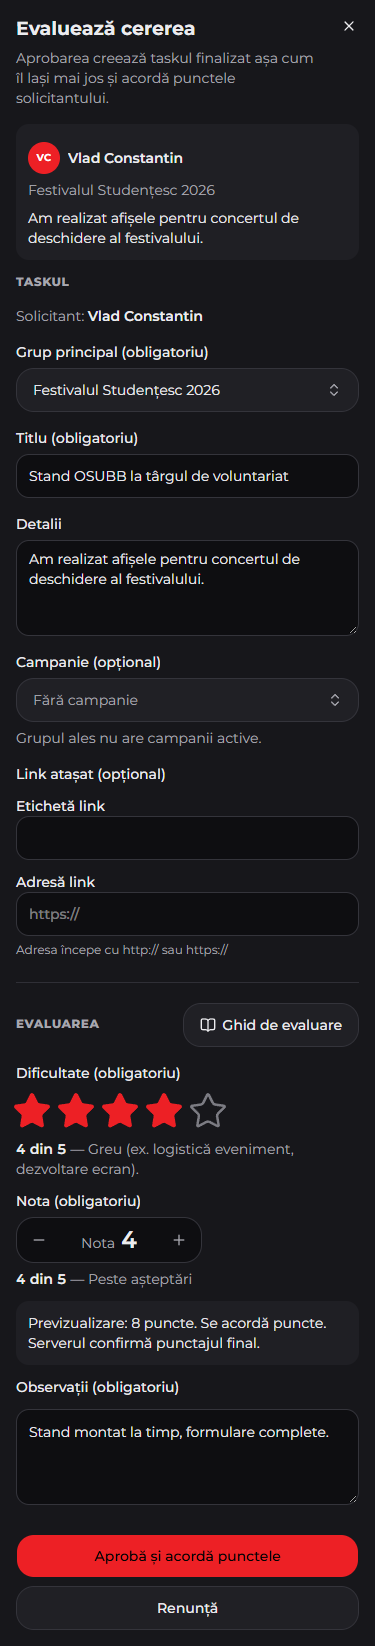
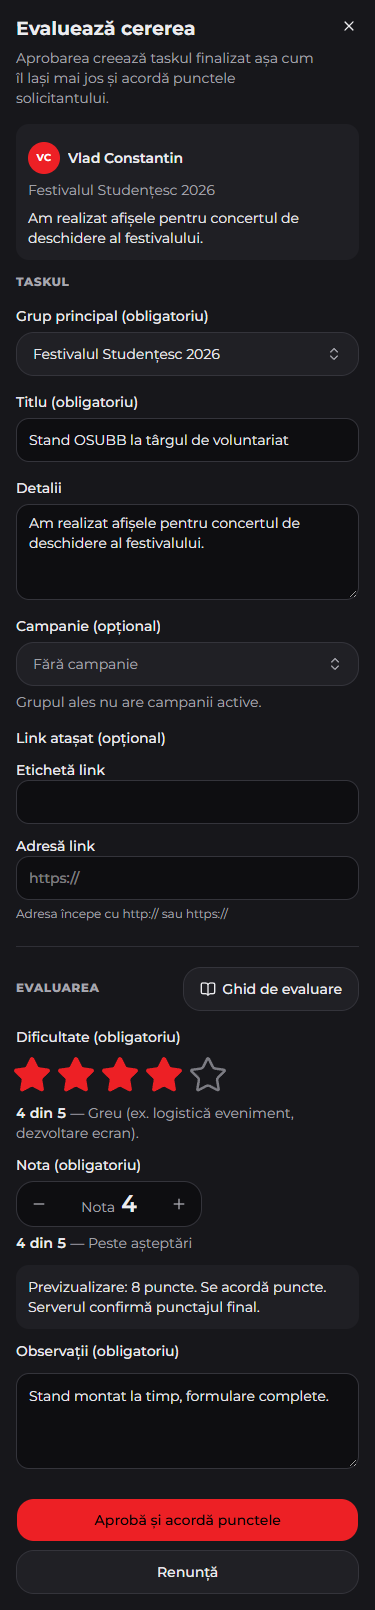
fix(tracker): pickers read one Group Audience per Group; volunteers as Member Cards (#915)
CodeRabbit on #920:
- completed_task_executors computes the Group Audience once
  (private.completed_work_executors: the caller's standing first, then the
  per-candidate checks), and can_award_completed_work checks the cheap
  parts before the audience. The rule splits into can_award_in_group,
  meets_group_min_level and is_work_decider; the commands' gate uses the
  same pieces.
- The fixed volunteer renders through MemberName; the approval dialog names
  the requester once, in the Request summary.

diff --git a/app/src/components/tasks/CompletedTaskForm.tsx b/app/src/components/tasks/CompletedTaskForm.tsx
@@ -8,6 +8,7 @@ import {
 } from 'react';
 import { AttachedLinkFields } from '../attached-link/AttachedLinkFields';
 import { SubHeading } from '../layout';
+import { MemberName } from '../member/MemberName';
 import { Button } from '../ui/button';
 import {
   Combobox,
@@ -49,7 +50,11 @@ const control =
   'min-h-11 w-full rounded-md border border-input bg-background px-3 py-2 text-sm';
 
 /** A volunteer already decided by where the form opened: the requester, or the tracked Member. */
-export type FixedVolunteer = { id: string; name: string };
+export type FixedVolunteer = {
+  id: string;
+  nickname: string | null;
+  fullName: string;
+};
 
 /**
  * The completed-Task form (#915), one component for both ways a completed
@@ -79,8 +84,11 @@ export function CompletedTaskForm({
   options: CompletedTaskOptions;
   /** `null`: the manager chooses the volunteer after the Group. */
   volunteer: FixedVolunteer | null;
-  /** How the fixed volunteer is named: "Solicitant" on an approval. */
-  volunteerLabel?: string;
+  /**
+   * The line naming the fixed volunteer; null when the host already shows
+   * them (an approval's Request summary names the requester).
+   */
+  volunteerLabel?: string | null;
   initial?: { title?: string; description?: string; groupId?: number | null };
   submitLabel: string;
   isPending: boolean;
@@ -198,10 +206,15 @@ export function CompletedTaskForm({
         className="grid min-w-0 gap-4"
       >
         <SubHeading id={`${id}-task`}>Taskul</SubHeading>
-        {volunteer && (
+        {volunteer && volunteerLabel && (
           <p className="m-0 text-sm" data-slot="completed-volunteer">
             <span className="text-muted-foreground">{volunteerLabel}: </span>
-            <span className="font-semibold">{volunteer.name}</span>
+            <MemberName
+              memberId={volunteer.id}
+              nickname={volunteer.nickname}
+              fullName={volunteer.fullName}
+              className="font-semibold"
+            />
           </p>
         )}
         <div className="grid gap-1.5" {...form.slot('groupId')}>

diff --git a/app/src/screens/requests/RequestDecisionQueue.test.tsx b/app/src/screens/requests/RequestDecisionQueue.test.tsx
@@ -125,7 +125,7 @@ it('shares evaluation fields and retains success after the queue refetches empty
     'Cererea a fost aprobată',
   );
   expect(screen.getByRole('status')).toHaveFocus();
-});
+}, 20_000);
 it('requires a rejection note, calls rejection only, and has no axe violations', async () => {
   const user = userEvent.setup();
   const { container } = render(<RequestDecisionQueue />);
@@ -272,9 +272,14 @@ it('prefills the Task from the Request and approves it as the decider shaped it 
     name: 'Evaluează cererea',
   });
   expect(groups.read).toHaveBeenCalledWith('ana');
+  // The requester, as a Member Card button (the path rule for names).
+  // The requester is named once, by the Request summary, as a Member Card.
   expect(
-    dialog.querySelector('[data-slot="completed-volunteer"]'),
-  ).toHaveTextContent('Solicitant: Ana Pop');
+    within(dialog).getAllByRole('button', {
+      name: 'Profilul membrului Ana Pop',
+    }),
+  ).toHaveLength(1);
+  expect(dialog.querySelector('[data-slot="completed-volunteer"]')).toBeNull();
   const title = within(dialog).getByLabelText('Titlu (obligatoriu)');
   expect(title).toHaveValue(request.description);
   expect(within(dialog).getByLabelText('Detalii')).toHaveValue(
@@ -327,7 +332,8 @@ it('prefills the Task from the Request and approves it as the decider shaped it 
       campaignId: 11,
     },
   });
-});
+  // A long form: slow under the full parallel run.
+}, 20_000);
 
 it('shows a refusal about the requester under Grup, in Romanian (#915)', async () => {
   const user = userEvent.setup();

diff --git a/app/src/screens/leadership/MemberTrackerScreen.test.tsx b/app/src/screens/leadership/MemberTrackerScreen.test.tsx
@@ -508,9 +508,12 @@ it('adds a completed Task for the tracked Member, preselected, and says so (#915
     name: 'Adaugă task finalizat',
   });
   // The volunteer is the Member, by Nickname; there is nobody else to pick.
-  expect(
-    dialog.querySelector('[data-slot="completed-volunteer"]'),
-  ).toHaveTextContent('Voluntar: Ioana');
+  const member = within(dialog).getByRole('button', {
+    name: 'Profilul membrului Ioana',
+  });
+  expect(member.closest('[data-slot="completed-volunteer"]')).toHaveTextContent(
+    /^Voluntar:/,
+  );
   expect(
     within(dialog).queryByRole('combobox', { name: /Voluntar/ }),
   ).toBeNull();
@@ -554,4 +557,5 @@ it('adds a completed Task for the tracked Member, preselected, and says so (#915
       /Taskul finalizat „Atelier de vară” a fost adăugat/,
     ),
   ).toHaveFocus();
-});
+  // A long form: slow under the full parallel run.
+}, 20_000);

diff --git a/app/src/screens/requests/RequestDecisionQueue.tsx b/app/src/screens/requests/RequestDecisionQueue.tsx
@@ -160,7 +160,8 @@ function ApproveRequestForm({
   }, [groups.data, request.group_id, request.group_name]);
   const volunteer: FixedVolunteer = {
     id: request.requester_id,
-    name: request.requester_nickname || request.requester_name,
+    nickname: request.requester_nickname ?? null,
+    fullName: request.requester_name,
   };
   if (groups.isPending)
     return <Loading label="Se încarcă grupurile cererii…" />;
@@ -177,7 +178,8 @@ function ApproveRequestForm({
     <CompletedTaskForm
       options={options}
       volunteer={volunteer}
-      volunteerLabel="Solicitant"
+      // The Request summary above already names the requester.
+      volunteerLabel={null}
       initial={{
         // The Task's title is the Request's first 120 characters, as the
         // server writes it when nothing is changed.

diff --git a/app/src/screens/tracker/AddCompletedTaskControl.tsx b/app/src/screens/tracker/AddCompletedTaskControl.tsx
@@ -70,7 +70,7 @@ export function AddCompletedTaskForMember({
       onOpenChange={setOpen}
       options={groups}
       volunteer={volunteer}
-      description={`Înregistrează munca pe care ${volunteer.name} a făcut-o deja într-un grup pe care îl gestionezi și acordă-i punctele.`}
+      description="Înregistrează munca pe care acest membru a făcut-o deja într-un grup pe care îl gestionezi și acordă-i punctele."
       onAdded={onAdded}
     />
   );

diff --git a/app/src/screens/leadership/MemberTrackerScreen.tsx b/app/src/screens/leadership/MemberTrackerScreen.tsx
@@ -322,7 +322,8 @@ function MemberHistory({ memberId }: { memberId: string }) {
   const volunteer = card.data
     ? {
         id: memberId,
-        name: card.data.nickname || card.data.fullName || 'Membru OSUBB',
+        nickname: card.data.nickname,
+        fullName: card.data.fullName,
       }
     : null;
   const [added, setAdded] = useState<{ id: number; title: string } | null>(
